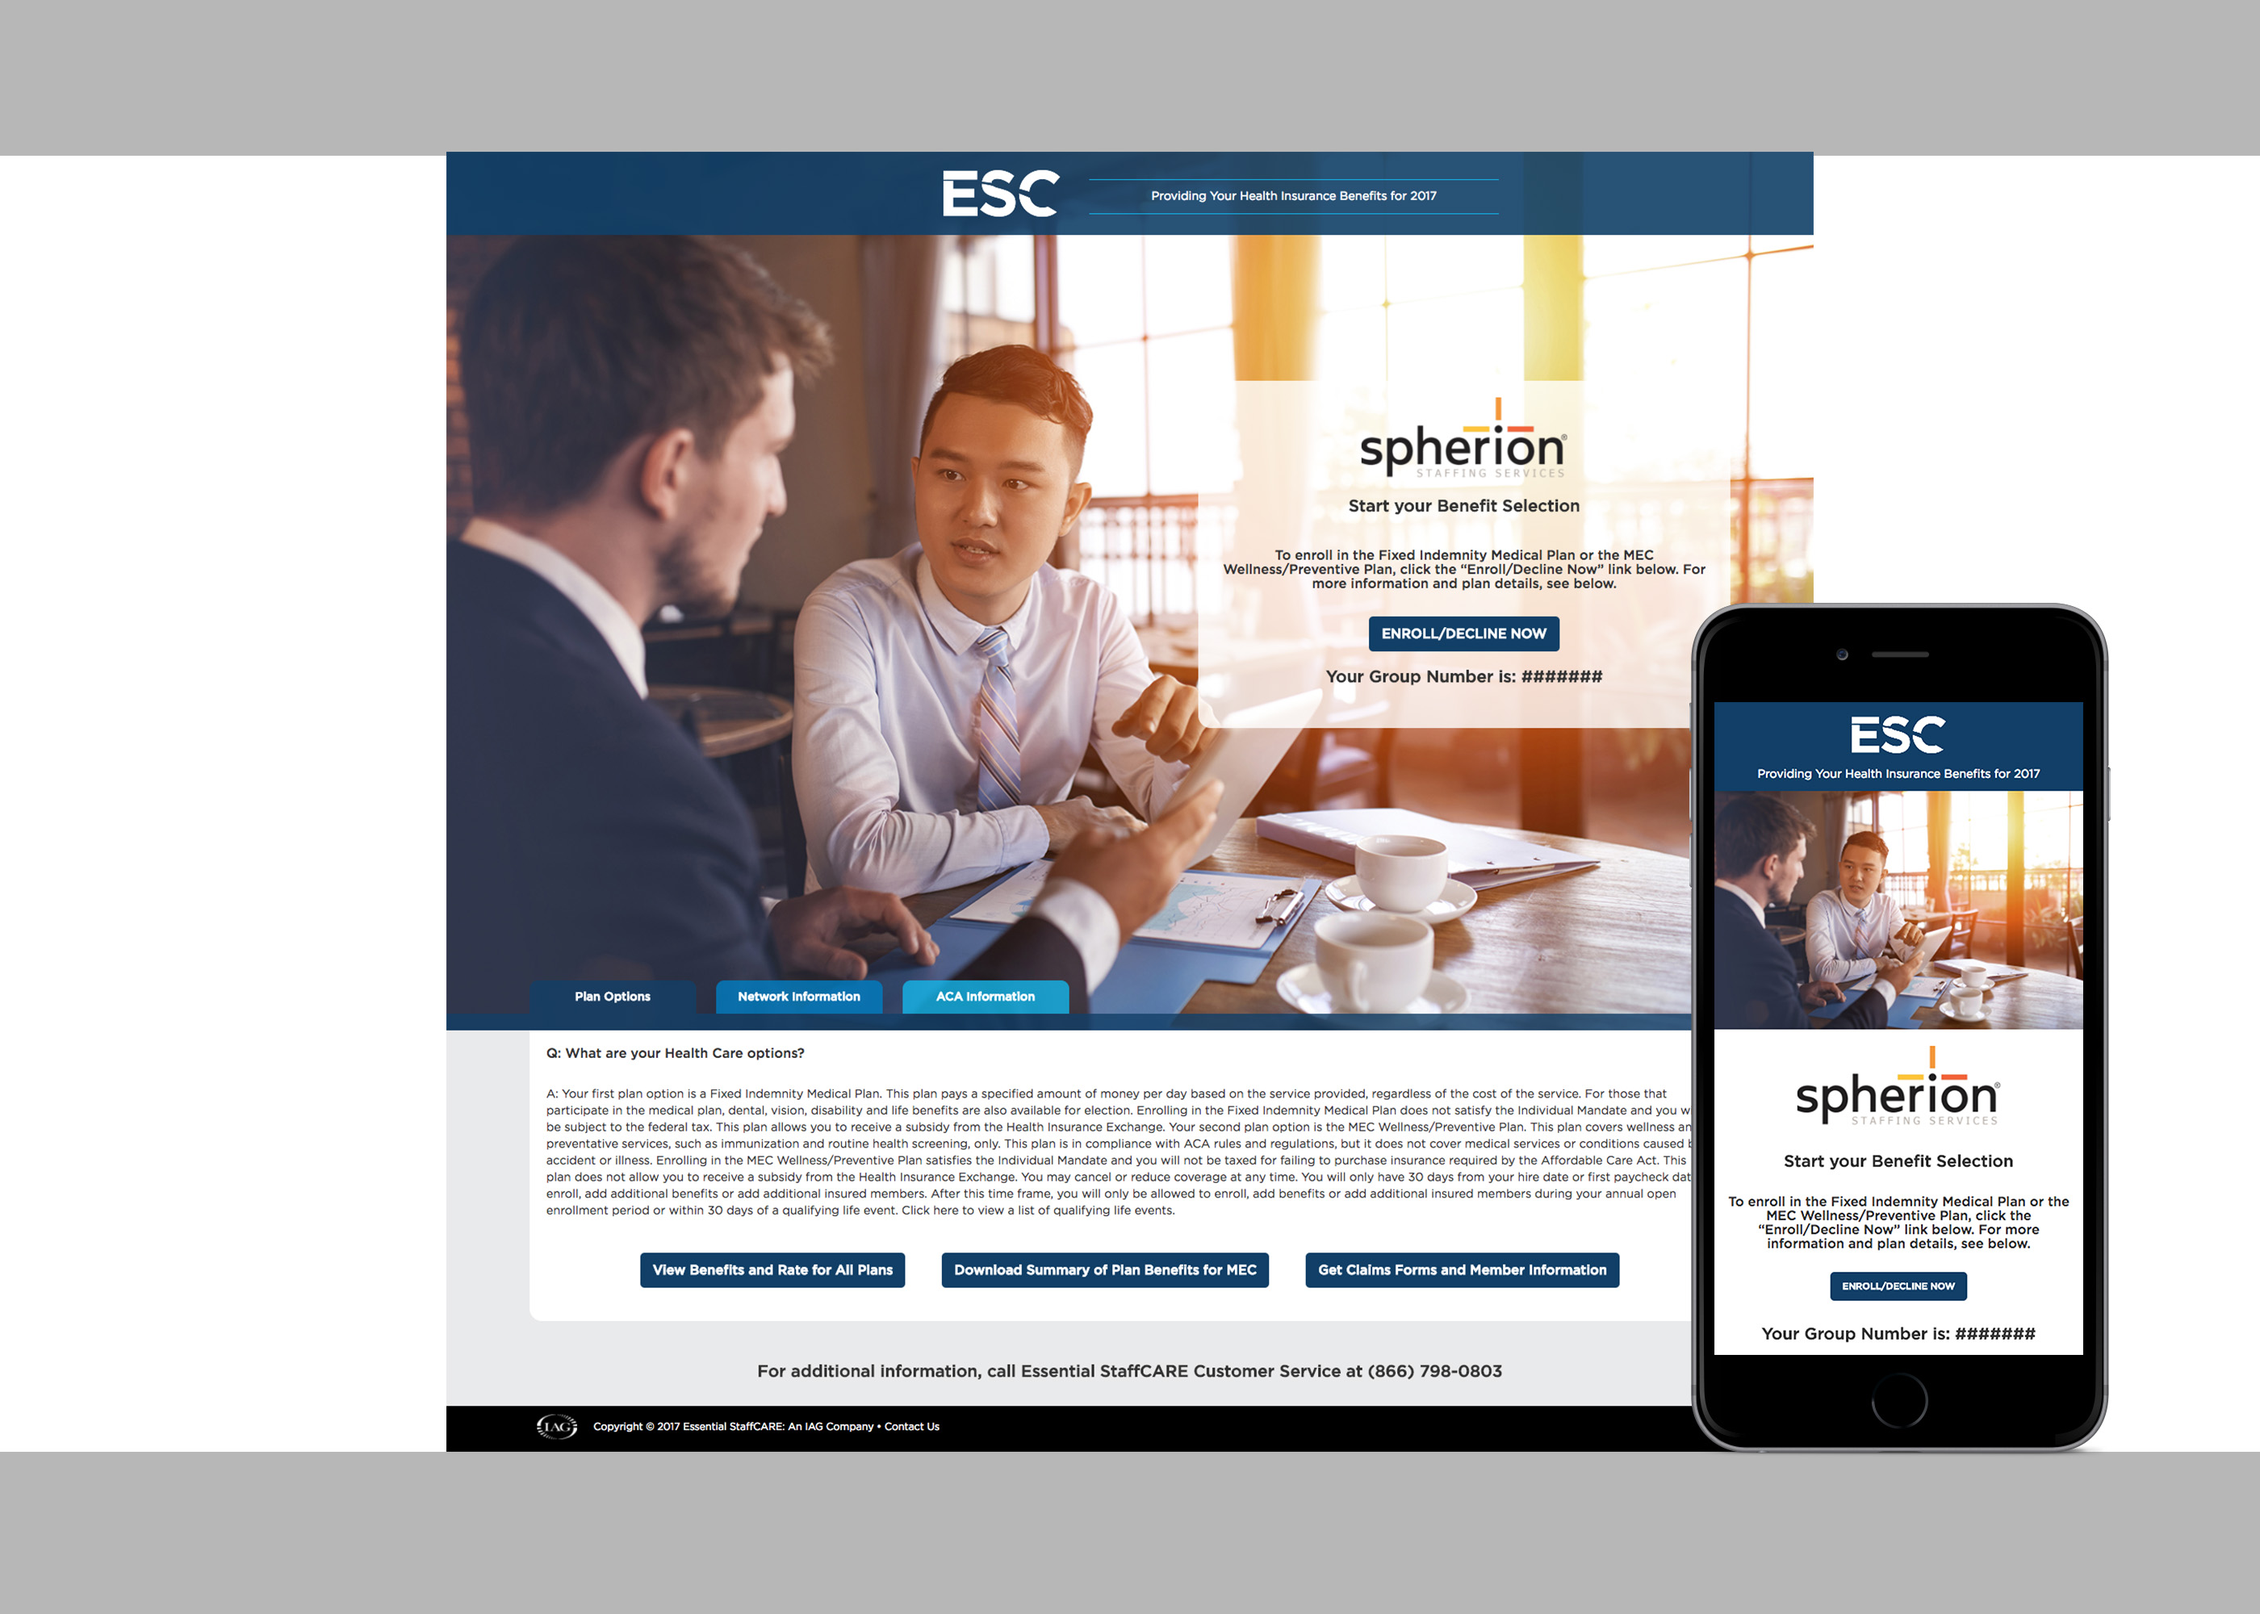
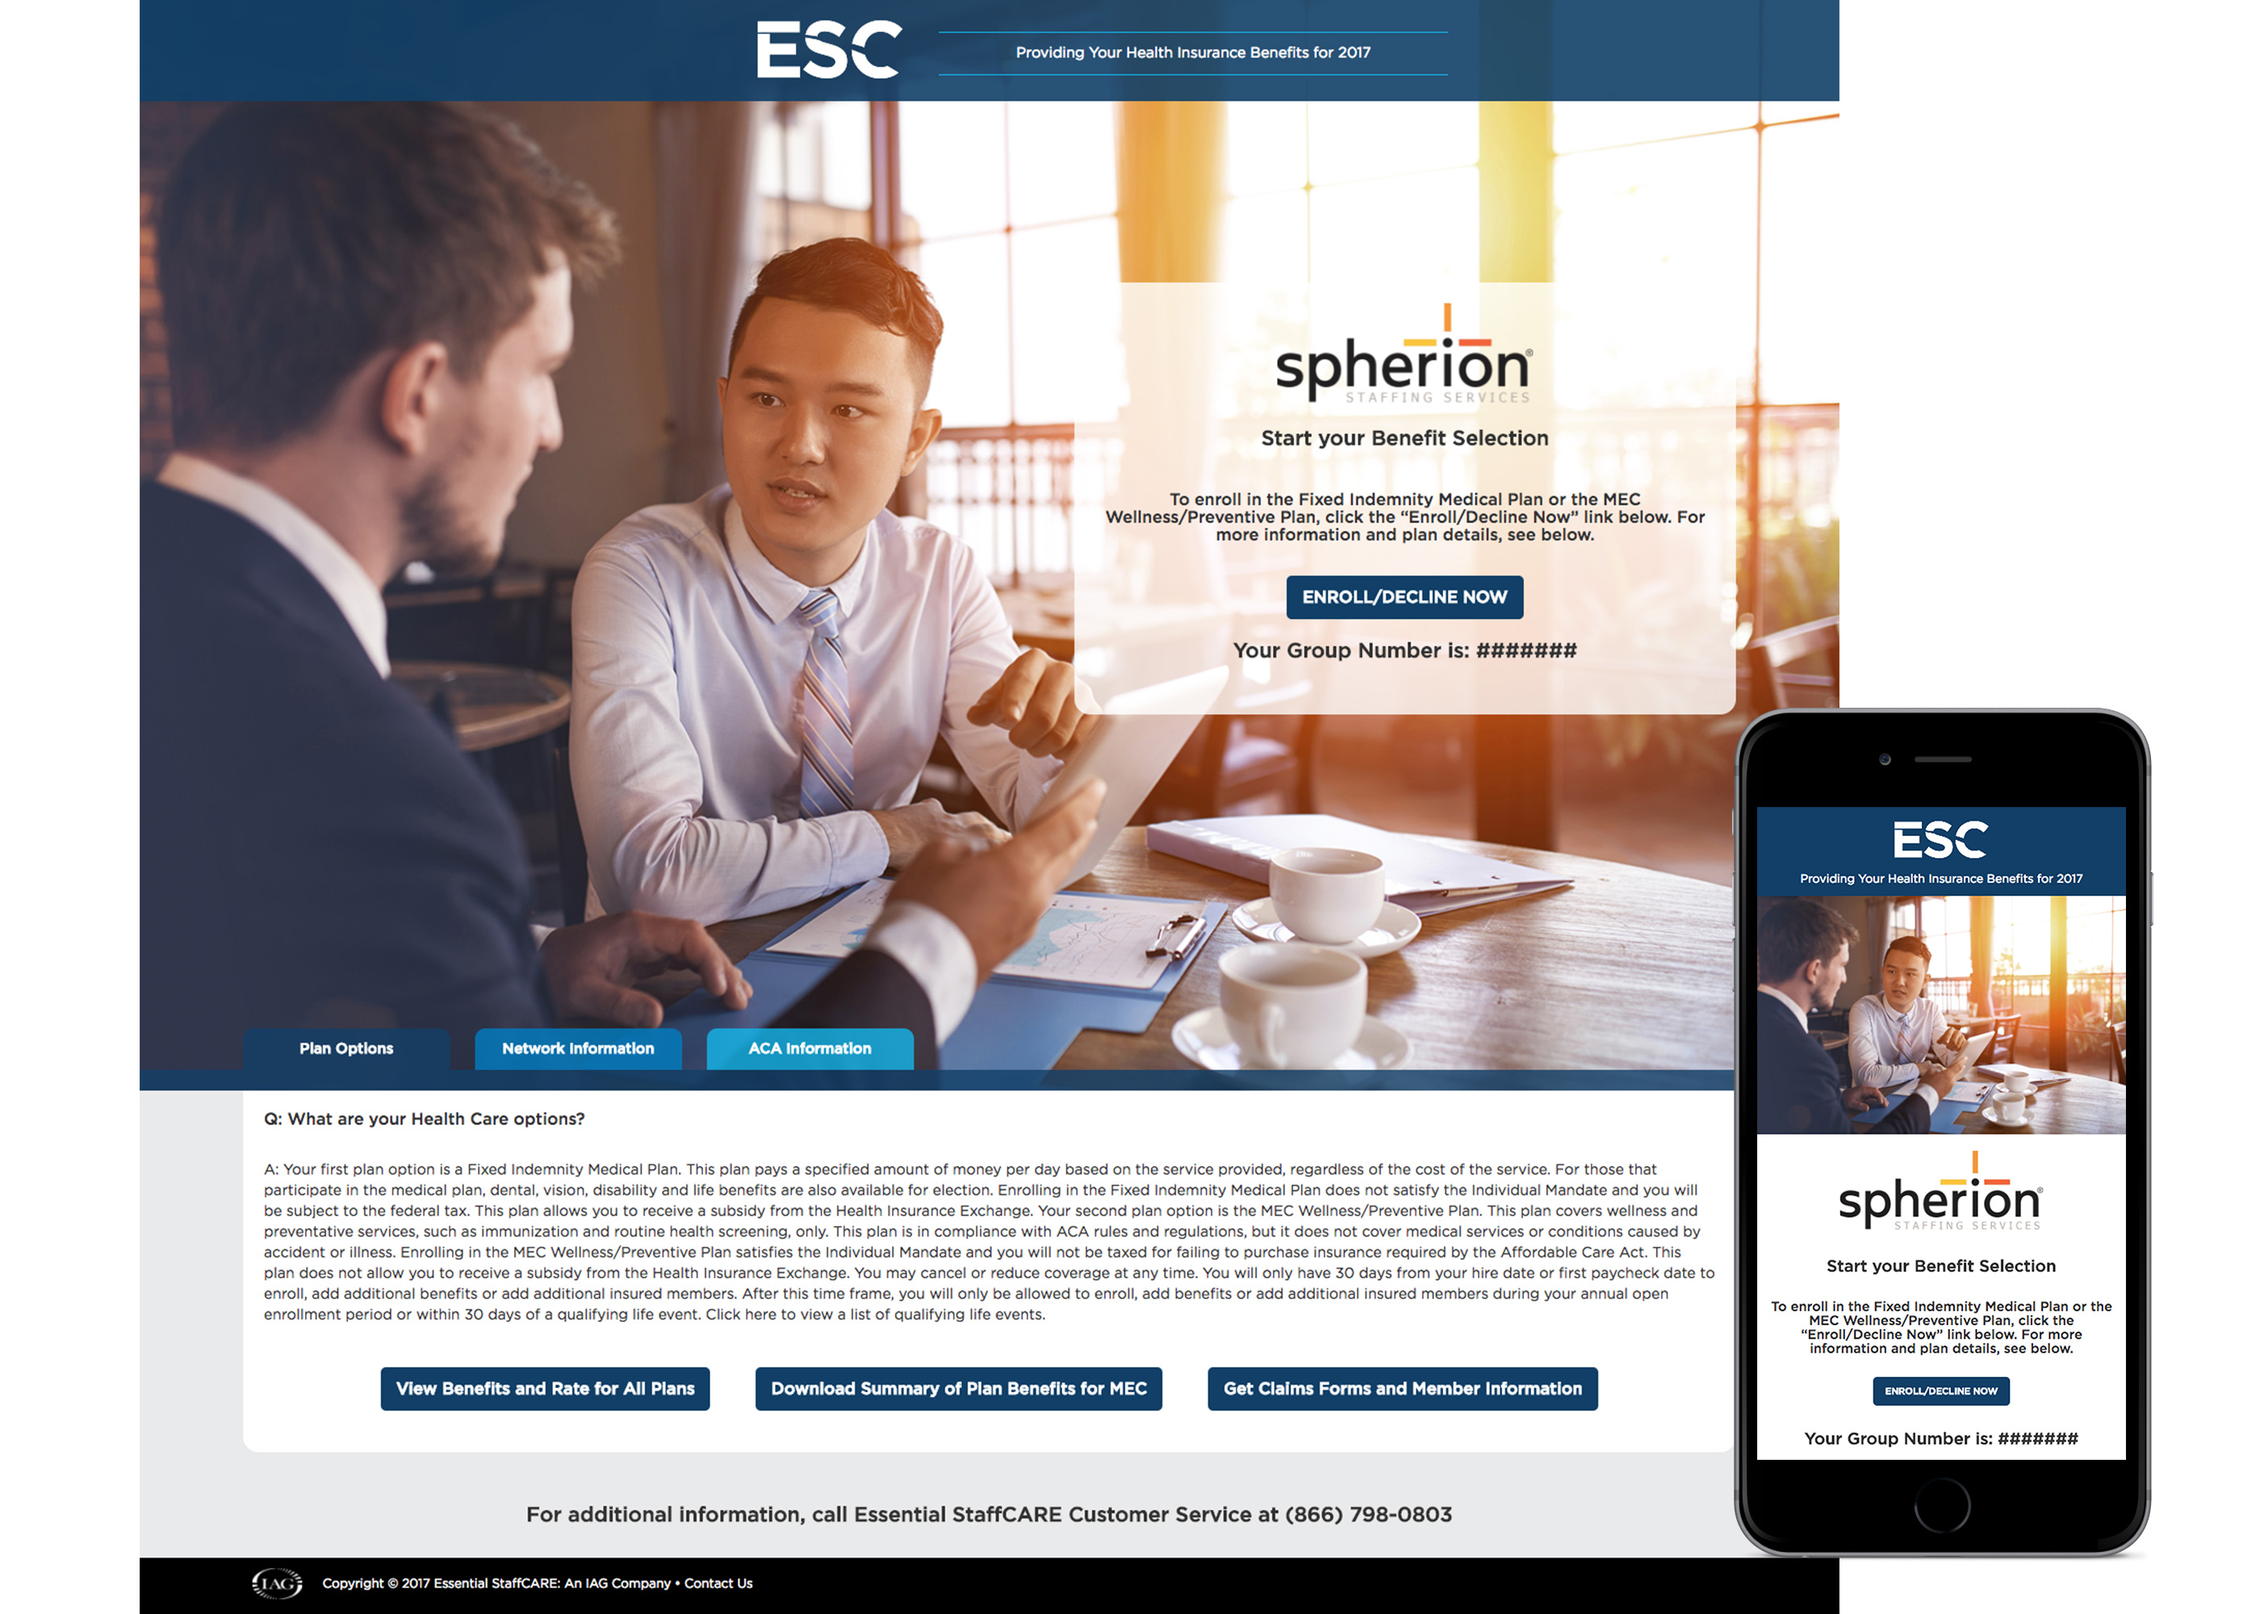
added jquery fade in

diff --git a/freelance.html b/freelance.html
@@ -8,11 +8,12 @@
   <link rel="stylesheet" href="https://maxcdn.bootstrapcdn.com/bootstrap/3.3.7/css/bootstrap.min.css" integrity="sha384-BVYiiSIFeK1dGmJRAkycuHAHRg32OmUcww7on3RYdg4Va+PmSTsz/K68vbdEjh4u" crossorigin="anonymous">
   <script src="https://ajax.googleapis.com/ajax/libs/jquery/3.1.1/jquery.min.js"></script>
   <script src="https://maxcdn.bootstrapcdn.com/bootstrap/3.3.7/js/bootstrap.min.js"></script>
+  <script src="jquery/script.js"></script>
   <link rel="stylesheet" type="text/css" href="styles/main.css">
   <link href="jquery/featherlight.min.css" type="text/css" rel="stylesheet" />
   <script src="https://use.typekit.net/kxh3vtb.js"></script>
   <script>try{Typekit.load({ async: true });}catch(e){}</script>
-  <script type="text/javascript" src="jquery/script.js"></script>
+
 </head>
 <body>
 

diff --git a/web.html b/web.html
@@ -8,11 +8,11 @@
   <link rel="stylesheet" href="https://maxcdn.bootstrapcdn.com/bootstrap/3.3.7/css/bootstrap.min.css" integrity="sha384-BVYiiSIFeK1dGmJRAkycuHAHRg32OmUcww7on3RYdg4Va+PmSTsz/K68vbdEjh4u" crossorigin="anonymous">
   <script src="https://ajax.googleapis.com/ajax/libs/jquery/3.1.1/jquery.min.js"></script>
   <script src="https://maxcdn.bootstrapcdn.com/bootstrap/3.3.7/js/bootstrap.min.js"></script>
+    <script src="jquery/script.js"></script>
   <link rel="stylesheet" type="text/css" href="styles/main.css">
   <link href="jquery/featherlight.min.css" type="text/css" rel="stylesheet" />
   <script src="https://use.typekit.net/kxh3vtb.js"></script>
   <script>try{Typekit.load({ async: true });}catch(e){}</script>
-  <script type="text/javascript" src="jquery/script.js"></script>
 </head>
 <body>
 

diff --git a/print.html b/print.html
@@ -8,11 +8,11 @@
   <link rel="stylesheet" href="https://maxcdn.bootstrapcdn.com/bootstrap/3.3.7/css/bootstrap.min.css" integrity="sha384-BVYiiSIFeK1dGmJRAkycuHAHRg32OmUcww7on3RYdg4Va+PmSTsz/K68vbdEjh4u" crossorigin="anonymous">
   <script src="https://ajax.googleapis.com/ajax/libs/jquery/3.1.1/jquery.min.js"></script>
   <script src="https://maxcdn.bootstrapcdn.com/bootstrap/3.3.7/js/bootstrap.min.js"></script>
+  <script src="jquery/script.js"></script>
   <link rel="stylesheet" type="text/css" href="styles/main.css">
   <link href="jquery/featherlight.min.css" type="text/css" rel="stylesheet" />
   <script src="https://use.typekit.net/kxh3vtb.js"></script>
   <script>try{Typekit.load({ async: true });}catch(e){}</script>
-  <script type="text/javascript" src="jquery/script.js"></script>
 </head>
 <body>
 

diff --git a/index.html b/index.html
@@ -8,12 +8,12 @@
   <link rel="stylesheet" href="https://maxcdn.bootstrapcdn.com/bootstrap/3.3.7/css/bootstrap.min.css" integrity="sha384-BVYiiSIFeK1dGmJRAkycuHAHRg32OmUcww7on3RYdg4Va+PmSTsz/K68vbdEjh4u" crossorigin="anonymous">
   <script src="https://ajax.googleapis.com/ajax/libs/jquery/3.1.1/jquery.min.js"></script>
   <script src="https://maxcdn.bootstrapcdn.com/bootstrap/3.3.7/js/bootstrap.min.js"></script>
+  <script src="jquery/script.js"></script>
   <link rel="stylesheet" type="text/css" href="styles/main.css">
   <script src="https://use.typekit.net/kxh3vtb.js"></script>
   <script>try{Typekit.load({ async: true });}catch(e){}</script>
 </head>
 <body>
-
 <!---       Head            -->
 
 <div class="head">

diff --git a/styles/main.css b/styles/main.css
@@ -78,6 +78,7 @@ p {
   background-color: rgba(255, 255, 255, 0.7);
   margin-left: 35%;
   margin-right: 35%;
+  display: none;
 }
 
 #floating-box-interior{
@@ -88,6 +89,7 @@ p {
   background-color: rgba(255, 255, 255, 0.7);
   margin-left: 35%;
   margin-right: 35%;
+    display: none;
 }
 
 /* ---------------------------------------- Nav -----------------------------------*/

diff --git a/jquery/script.js b/jquery/script.js
@@ -1,5 +1,7 @@
-/* $(document).ready(function(){
-   $("img").click(function(){
-        $("img").animate({height: "800px"});
-    });
-}); */
+$(document).ready(function(){
+        $("#floating-box").fadeIn(2000);
+});
+
+$(document).ready(function(){
+        $("#floating-box-interior").fadeIn(1000);
+});
